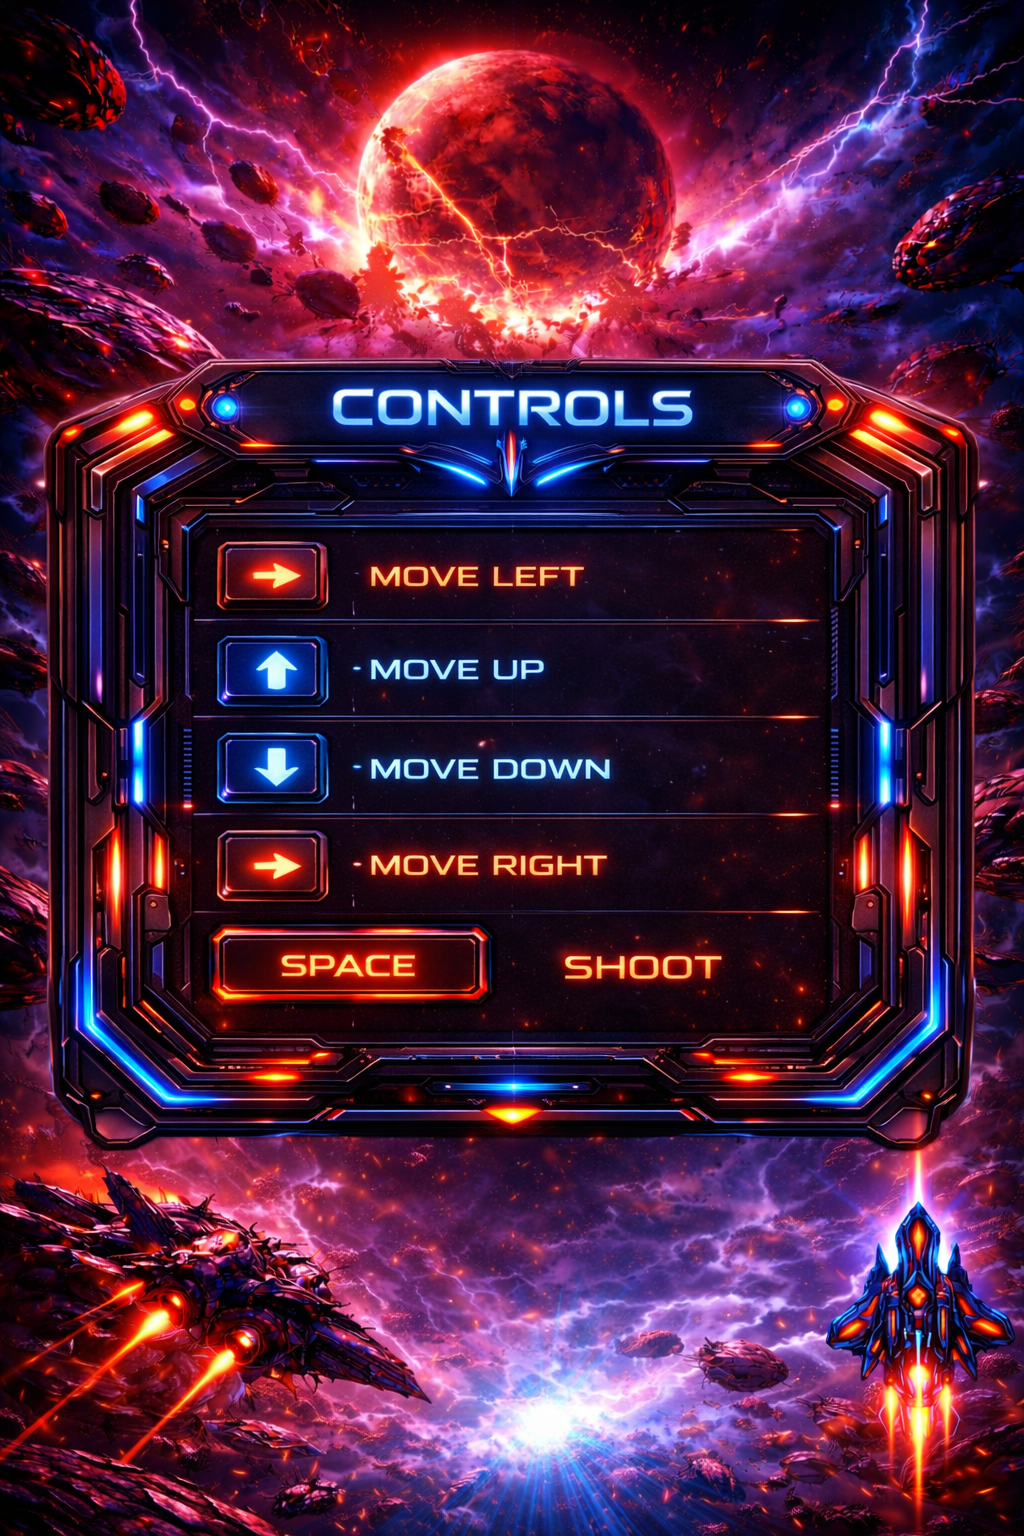
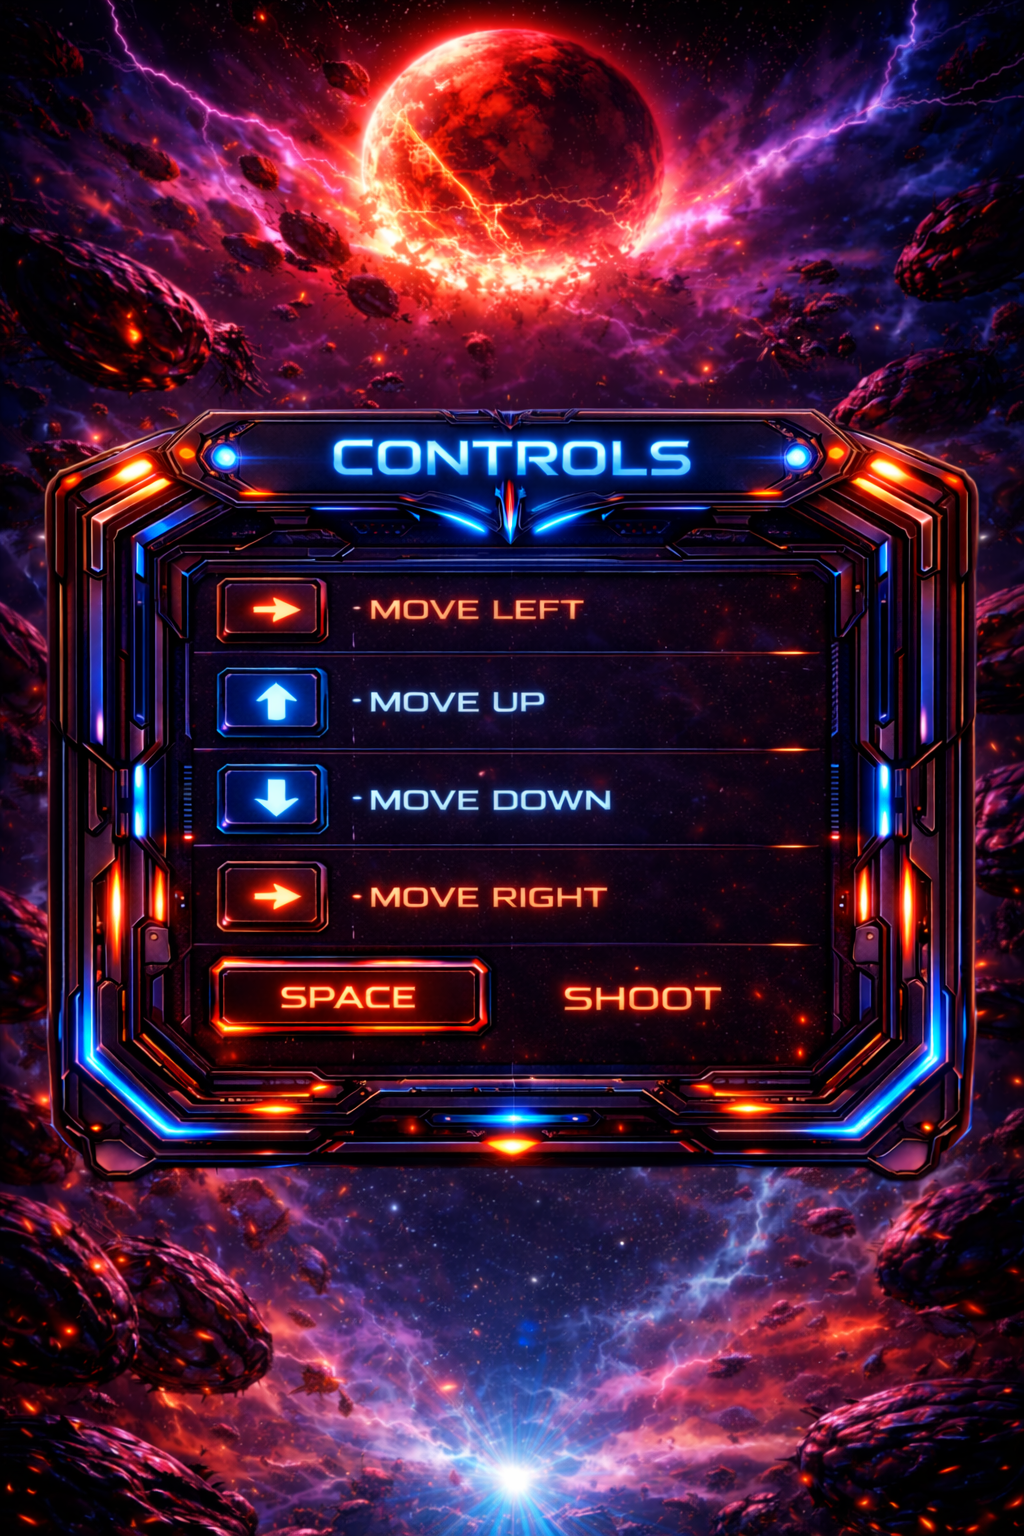
feat: add custom UI buttons and animated star background

diff --git a/css/main.css b/css/main.css
@@ -1,7 +1,47 @@
 body {
-    padding: 0;
-    margin: 0;
+  margin: 0;
+  padding: 0;
+  background: #020611;
+  overflow: hidden;
+  position: relative;
+}
 
+/* Capa 1 - estrellas pequeñas */
+body::before,
+body::after {
+  content: "";
+  position: fixed;
+  inset: 0;
+  pointer-events: none;
+}
+
+/* Estrellas lejanas */
+body::before {
+  background-image:
+    radial-gradient(rgba(255,255,255,0.8) 1px, transparent 1px);
+  background-size: 120px 120px;
+  animation: starsMoveSlow 200s linear infinite;
+  opacity: 0.6;
+}
+
+/* Estrellas cercanas */
+body::after {
+  background-image:
+    radial-gradient(rgba(255,255,255,0.9) 1.5px, transparent 1.5px);
+  background-size: 80px 80px;
+  animation: starsMoveFast 120s linear infinite;
+  opacity: 0.8;
+}
+
+/* Animaciones */
+@keyframes starsMoveSlow {
+  from { transform: translateY(0); }
+  to   { transform: translateY(1000px); }
+}
+
+@keyframes starsMoveFast {
+  from { transform: translateY(0); }
+  to   { transform: translateY(1500px); }
 }
 
 #menu {
@@ -10,22 +50,85 @@ body {
     position: relative;
     overflow: hidden;
     margin: 20px auto;
-    background-image : url("../assets/images/menu.png");
+    background-image: url("../assets/images/board.png");
     background-size: cover;
     background-position: center;
     background-repeat: no-repeat;
+    display: flex;
+    flex-direction: column;
+    justify-content: center;
+    align-items: center;
 }
 
-#controls{
+#logo {
+    height: 500px;
+    width: 900px;
+    position: absolute;
+    background-image: url("../assets/images/logo.png");
+    background-size: cover;
+    background-position: center;
+    background-repeat: no-repeat;
+    top: 100px;
+
+}
+
+#menu-buttons {
+    display: flex;
+    flex-direction: column;
+    position: absolute;
+    gap: 20px;
+}
+
+#play-game-button {
+    height: 150px;
+    width: 640px;
+    background-image: url("../assets/images/play-game.png");
+    background-size: cover;
+    background-position: center;
+    background-repeat: no-repeat;
+    transition: transform 0.2s ease;
+    margin-bottom: 20px;
+}
+
+#play-game-button:hover {
+    transform: scale(1.1);
+    cursor: pointer;
+
+}
+
+#options-button {
+    height: 150px;
+    width: 640px;
+    background-image: url("../assets/images/controls-button.png");
+    background-size: cover;
+    background-position: center;
+    background-repeat: no-repeat;
+
+    transition: transform 0.2s ease;
+}
+
+#options-button:hover {
+    transform: scale(1.1);
+    cursor: pointer;
+
+}
+
+
+
+#controls {
     width: 40vw;
     height: calc(100vh - 40px);
     position: relative;
     overflow: hidden;
     margin: 20px auto;
-    background-image : url("../assets/images/controls.png");
+    background-image: url("../assets/images/controls.png");
     background-size: cover;
     background-position: center;
     background-repeat: no-repeat;
+    display: flex;
+    flex-direction: column;
+    justify-content: flex-start;
+    align-items: flex-end;
 }
 
 #board {
@@ -34,7 +137,7 @@ body {
     position: relative;
     overflow: hidden;
     margin: 20px auto;
-    background-image : url("../assets/images/board.png");
+    background-image: url("../assets/images/board.png");
     background-size: cover;
     background-position: center;
     background-repeat: no-repeat;
@@ -42,16 +145,90 @@ body {
 
 
 
-#page-gameover{
+#page-gameover {
     width: 40vw;
     height: calc(100vh - 40px);
     position: relative;
     overflow: hidden;
     margin: 20px auto;
-    background-image : url("../assets/images/game-over.png");
+    background-image: url("../assets/images/board.png");
     background-size: cover;
     background-position: center;
     background-repeat: no-repeat;
+}
+
+#game-over-logo {
+    height: 400px;
+    width: 900px;
+    position: absolute;
+    background-image: url("../assets/images/game-over.png");
+    background-size: cover;
+    background-position: center;
+    background-repeat: no-repeat;
+    top: 100px;
+}
+
+#game-over-buttons {
+    display: flex;
+    flex-direction: column;
+    position: absolute;
+    gap: 20px;
+}
+
+#try-again-button {
+    height: 150px;
+    width: 640px;
+    background-image: url("../assets/images/try-again-button.png");
+    background-size: cover;
+    background-position: center;
+    background-repeat: no-repeat;
+    transition: transform 0.2s ease;
+    margin-bottom: 20px;
+}
+
+#try-again-button:hover {
+    transform: scale(1.1);
+    cursor: pointer;
+
+}
+
+#menu-button {
+    height: 150px;
+    width: 640px;
+    background-image: url("../assets/images/menu-button.png");
+    background-size: cover;
+    background-position: center;
+    background-repeat: no-repeat;
+    transition: transform 0.2s ease;
+}
+
+#menu-button:hover {
+    transform: scale(1.1);
+    cursor: pointer;
+}
+
+#back-to-menu-button {
+    height: 120px;
+    width: 120px;
+    background-image: url("../assets/images/back-to-menu.png");
+    background-size: cover;
+    background-position: center;
+    background-repeat: no-repeat;
+    transition: transform 0.2s ease;
+
+}
+
+#back-to-menu-button:hover {
+    transform: scale(1.1);
+    cursor: pointer;
+}
+
+#result-container {
+    display: flex;
+    flex-direction: row;
+    justify-content: space-between;
+    align-items: start;
+    gap: 20px;
 }
 
 #player {
@@ -100,7 +277,7 @@ body {
 }
 
 
-span {
+p {
     color: white;
-    font-size: 20px;
+    font-size: 30px;
 }

diff --git a/js/buttons.js b/js/buttons.js
@@ -1,0 +1,37 @@
+const playButton = document.getElementById("play-game-button");
+const controlsButton = document.getElementById("options-button");
+const tryAgainButton = document.getElementById("try-again-button");
+const menuButton = document.getElementById("menu-button");
+const backToMenuButton = document.getElementById("back-to-menu-button");
+
+
+
+if (playButton) {
+  playButton.addEventListener("click", () => {
+    window.location.href = "game.html";
+  });
+}
+
+if (controlsButton) {
+  controlsButton.addEventListener("click", () => {
+    window.location.href = "controls.html";
+  });
+}
+
+if (tryAgainButton) {
+  tryAgainButton.addEventListener("click", () => {
+    window.location.href = "game.html";
+  });
+}
+
+if (menuButton) {
+  menuButton.addEventListener("click", () => {
+    window.location.href = "index.html";
+  });
+}
+
+if (backToMenuButton) {
+    backToMenuButton.addEventListener("click", () => {
+        window.location.href = "index.html";
+    });
+}

diff --git a/js/main.js b/js/main.js
@@ -6,7 +6,7 @@ const livesElm = document.getElementById("lives")
 class Player {
     constructor() {
         this.width = 150;
-        this.height = 150;
+        this.height = 190;
         this.positionX = (parentElm.clientWidth / 2) - (this.width / 2); // Su punto de partida es el medio de la posicion horizontal
         this.positionY = 0
         this.updateUI()
@@ -34,7 +34,7 @@ class Player {
     }
 
     moveUp() {
-        if (this.positionY < parentElm.clientWidth - this.height) {
+        if (this.positionY < parentElm.clientHeight - this.height) {
             this.positionY += 10
             this.updateUI()
         }
@@ -51,7 +51,7 @@ class Player {
 class Enemy {
     constructor() {
         this.width = 150;
-        this.height = 150;
+        this.height = 190;
         this.positionX = Math.floor(Math.random() * (parentElm.clientWidth - this.width + 1)) // Spawn enemigo en una posición horizontal aleatoria
         this.positionY = parentElm.clientHeight
 

diff --git a/index.html b/index.html
@@ -1,16 +1,25 @@
 <!DOCTYPE html>
 <html lang="en">
+
 <head>
     <meta charset="UTF-8">
     <meta name="viewport" content="width=device-width, initial-scale=1.0">
     <title>Document</title>
     <link rel="stylesheet" href="./css/main.css">
 </head>
+
 <body>
-        <div id="menu">
-           
-            <a href="./game.html">Play</a>
-            <a href="./controls.html">Controls</a>
+    <div id="menu">
+        <div id="logo"></div>
+        <div id="menu-buttons">
+            <div id="play-game-button"></div>
+            <div id="options-button"></div>
         </div>
+
+
+    </div>
+
+    <script src="./js/buttons.js"></script>
 </body>
+
 </html>

diff --git a/game.html b/game.html
@@ -10,12 +10,12 @@
 
     <div id="board">
         <div id="player"></div>
-        <span id="score"> SCORE: 0</span>
-        <span id="lives"> LIVES: 3</span>
-
-        <a href="./index.html">Back to Menu</a>
+        <p id="score"> SCORE: 00</p>
+        <p id="lives"> LIVES: 3</p>
+        <div id="back-to-menu-button"></div>
     </div>
 
     <script src="./js/main.js"></script>
+    <script src="./js/buttons.js"></script>
 </body>
 </html>

diff --git a/game-over.html b/game-over.html
@@ -15,10 +15,16 @@
 <body>
 
     <div id="page-gameover">
-       
-        <a href="./index.html">Play Again</a>
+       <div id="game-over-logo"></div>
+       <div id="game-over-buttons">
+            <div id="try-again-button"></div>
+            <div id="menu-button"></div>
+       </div>
+        
 
     </div>
+
+    <script src="./js/buttons.js"></script>
     
 
 

diff --git a/controls.html b/controls.html
@@ -9,8 +9,10 @@
 <body>
         <div id="controls">
            
-            <a href="./index.html">Back to Menu</a>
+         <div id="back-to-menu-button"></div>>
         </div>
-    
+        
+
+        <script src="./js/buttons.js"></script>
 </body>
 </html>
